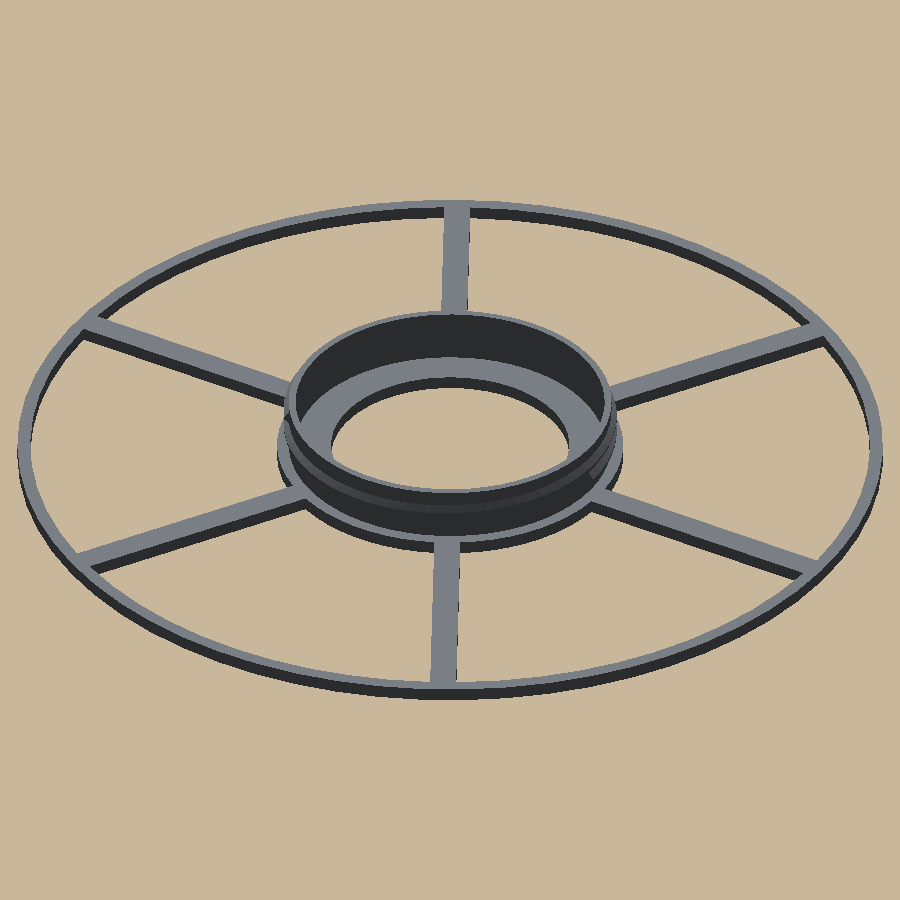
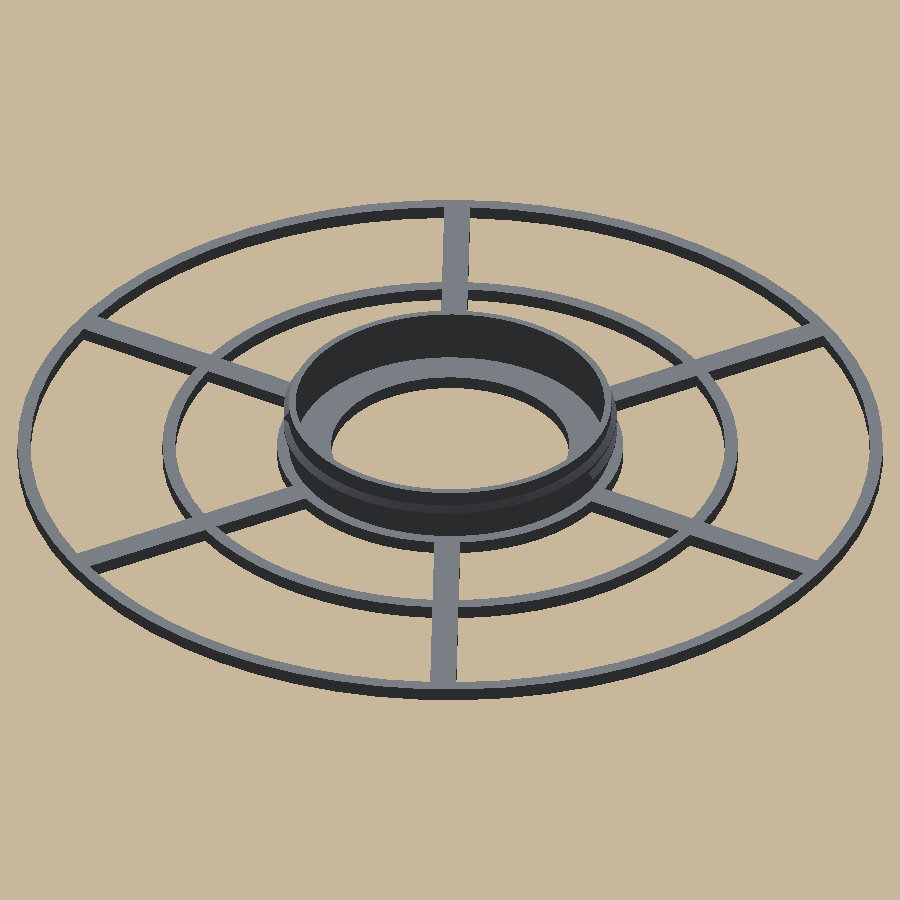
Refill spool: middle ring on both flanges, gapped at the straps on the barrel half (87.3 g)

Changed region(s): [[0.1556, 0.3111, 0.7778, 0.6844], [0.7778, 0.4044, 0.84, 0.5911]]

diff --git a/examples/refill-spool/tests/test_parts.py b/examples/refill-spool/tests/test_parts.py
@@ -14,6 +14,8 @@ C = center(P)
 BORE = P.bore_d / 2
 R_OUT = P.barrel_d / 2
 LOW = P.flange_t / 2
+MID_RING = pytest.approx((P.mid_ring_d / 2 - P.mid_ring_w / 2, P.mid_ring_d / 2 + P.mid_ring_w / 2), abs=0.02)
+RIM = pytest.approx((P.rim_in, P.rim_d / 2), abs=0.02)
 PLAIN_GAP = 360 / P.spokes  # between spokes 1 and 2: no strap track (straps are 0.5, 2.5, 4.5 steps round)
 
 
@@ -50,8 +52,7 @@ def test_barrel_half_flange_is_solid_out_to_the_barrel_then_rim(barrel):
         assert radial(barrel, C, a + 2.5, LOW, r0=BORE + 0.5, r1=R_OUT) == [pytest.approx(
             (BORE + 0.5, R_OUT), abs=0.02)], a
     assert radial(barrel, C, PLAIN_GAP / 2 + PLAIN_GAP, LOW) == [
-        pytest.approx((BORE, R_OUT), abs=0.02),
-        pytest.approx((P.rim_in, P.rim_d / 2), abs=0.02)]
+        pytest.approx((BORE, R_OUT), abs=0.02), MID_RING, RIM]
 
 
 @pytest.mark.parametrize("angle", P.strap_angles())
@@ -60,11 +61,19 @@ def test_strap_track_is_a_groove_the_barrels_full_length(barrel, angle):
     down (the barrel isn't slotted through), and opens out through the flange under it."""
     for z in (LOW, P.barrel_top / 2, P.barrel_top - 0.1):
         pieces = radial(barrel, C, angle, z, r0=BORE + P.bore_wall + 0.5, r1=P.rim_in - 0.5)
-        assert pieces[-1][1] == pytest.approx(P.track_floor, abs=0.02), (z, pieces)
+        assert pieces[-1][1] == pytest.approx(P.track_floor, abs=0.02), (z, pieces)  # open out to the rim
     behind = radial_z(barrel, C, angle, (P.nut_root + P.track_floor) / 2)
     assert behind == [pytest.approx((0, P.barrel_top), abs=1e-3)]
     assert tangential_gap(barrel, C, angle, (P.track_floor + R_OUT) / 2, P.barrel_top / 2) == pytest.approx(
         P.strap_w, abs=0.05)
+
+
+def test_middle_ring_is_gapped_for_the_straps_on_the_barrel_half_only(barrel, capp):
+    """A tie runs across the barrel half's outer face from its track to past the coil; a whole middle ring would
+    trap it. The cap's ring is whole: straps go on with the cap off."""
+    for a in P.strap_angles():
+        assert tangential_gap(barrel, C, a, P.mid_ring_d / 2, LOW, span=40) == pytest.approx(P.mid_ring_gap, abs=0.05)
+        assert radial(capp, C, a, LOW, r0=R_OUT + 0.5, r1=P.rim_in - 0.5) == [MID_RING]
 
 
 def test_barrel_is_one_tube_with_the_thread_unbroken(barrel):
@@ -120,9 +129,7 @@ def test_bore_is_plain(barrel):
 
 def test_cap_flange_and_spigot(capp):
     """The cap's flange is solid from the bore out over the barrel's top end, so the bore isn't hung on the spokes."""
-    assert radial(capp, C, PLAIN_GAP * 1.5, LOW) == [
-        pytest.approx((BORE, R_OUT), abs=0.02),
-        pytest.approx((P.rim_in, P.rim_d / 2), abs=0.02)]
+    assert radial(capp, C, PLAIN_GAP * 1.5, LOW) == [pytest.approx((BORE, R_OUT), abs=0.02), MID_RING, RIM]
     assert capp.bounding_box().max.Z == pytest.approx(P.flange_t + P.thread_len, abs=1e-3)
     outer = max(radial(capp, C, a, P.flange_t + P.thread_len / 2)[0][1] for a in range(0, 360, 5))
     assert outer == pytest.approx(P.bolt_root + P.thread_depth, abs=0.05)

diff --git a/examples/refill-spool/refill_spool/parts.py b/examples/refill-spool/refill_spool/parts.py
@@ -24,9 +24,16 @@ def radial_box(angle: float, r0: float, r1: float, w: float, h: float, z: float 
     return Rot(0, 0, angle) * Pos(r0, 0, z) * Box(r1 - r0, w, h, align=OUT)
 
 
-def flange(p: Params) -> Part:
-    """Rim and spokes, flange_t thick. Each spoke reaches from just inside the bore ring to the middle of the rim."""
+def flange(p: Params, strap_gaps: bool = False) -> Part:
+    """Rim, middle ring and spokes, flange_t thick. Each spoke reaches from just inside the bore to the middle of the
+    rim. strap_gaps: open the middle ring where each strap crosses the flange's outer face."""
     f = ring(p.rim_in, p.rim_d / 2, p.flange_t)
+    mid = ring(p.mid_ring_d / 2 - p.mid_ring_w / 2, p.mid_ring_d / 2 + p.mid_ring_w / 2, p.flange_t)
+    if strap_gaps:
+        for a in p.strap_angles():
+            mid -= radial_box(a, p.mid_ring_d / 2 - p.mid_ring_w, p.mid_ring_d / 2 + p.mid_ring_w, p.mid_ring_gap,
+                              p.flange_t + 1, -0.5)
+    f += mid
     for a in p.spoke_angles():
         f += radial_box(a, p.bore_d / 2 + 0.5, p.rim_in + p.rim_w / 2, p.spoke_w, p.flange_t)
     return f
@@ -72,7 +79,7 @@ def engaged(p: Params) -> float:
 
 def barrel_half_centered(p: Params = P) -> Part:
     top = p.barrel_top
-    part = flange(p) + ring(p.bore_d / 2, p.barrel_d / 2, p.flange_t)  # solid floor: the barrel stands on it
+    part = flange(p, strap_gaps=True) + ring(p.bore_d / 2, p.barrel_d / 2, p.flange_t)  # solid floor under barrel
     part += ring(p.bore_d / 2, p.bore_d / 2 + p.bore_wall, top)  # the cap's flange lands on its end
     part += ring(p.nut_root, p.barrel_d / 2, top)
     z0, z1 = nut_span(p)

diff --git a/examples/refill-spool/refill_spool/params.py b/examples/refill-spool/refill_spool/params.py
@@ -23,6 +23,9 @@ class Params:
     # flanges: spokes and a rim instead of a solid disc
     flange_t: float = 3.0  # 61 between flanges + 2 x 3 = 67, the enclosure's limit
     rim_w: float = 3.0  # radial
+    mid_ring_d: float = 130.0  # a second ring across the spokes, centered here: stiffer, smaller gaps
+    mid_ring_w: float = 3.0
+    mid_ring_gap: float = 10.0  # on the barrel half, at each strap: the tie crosses its outer face there
     spokes: int = 6
     spoke_w: float = 6.0
     # barrel half
@@ -50,7 +53,7 @@ class Params:
     strap_t: float = 1.2  # thickest strap the track must pass (zip ties up to ~6 x 1.2 mm)
     track_wall: float = 0.8  # barrel wall left behind the track
     filament: int = 3  # AMS slot: the user's PLA
-    max_grams: float = 85.0  # both halves, as Bambu Studio slices them (the user's solid printed ones are ~220)
+    max_grams: float = 95.0  # both halves, as Bambu Studio slices them (the user's solid printed ones are ~220)
     printer: Printer = Printer()
 
     def __post_init__(self):

diff --git a/examples/refill-spool/docs/specs/refill-spool.md b/examples/refill-spool/docs/specs/refill-spool.md
@@ -19,8 +19,8 @@ the spool in one piece.
 - **Straps:** 3 slots, 10 mm wide, run the barrel's full length midway between spokes. A strap goes under the core
   in a slot, out through both flanges between the spokes, and back over the coil inside the rim (needs the coil
   under Ø190; measure a full one). Tests model each loop at 1.5 mm thick and require it to touch nothing.
-- **Filament:** PLA, AMS slot 3 (see amendments). Bambu Studio slices the pair at 80.5 g; the tests hold
-  it under 85 g.
+- **Filament:** PLA, AMS slot 3 (see amendments). Bambu Studio slices the pair at 87.3 g; the tests hold
+  it under 95 g.
 
 All sizes live in `refill_spool/params.py`.
 
@@ -76,3 +76,8 @@ All sizes live in `refill_spool/params.py`.
   cardboard core measures 60 mm at its middle. 61 mm between flanges (0.5 mm a side) and 3 mm flanges make 67 mm.
   4 mm flanges (57 mm inside) can't hold a 60 mm core; 2 mm would fit but each spoke would be about a third as stiff
   (bending stiffness goes with thickness cubed), so 3 mm it is, in PLA (stiffer than PETG). 80.5 g sliced.
+- **2026-10-21: a middle ring on both flanges.** Ø130, 3 × 3 mm, across all six spokes: the flanges flex less and
+  the open gaps loose turns could slip through are halved. On the barrel half it has a 10 mm gap at each strap,
+  because a tie crosses that flange's outer face from its track to past the coil: a whole ring would trap the loop
+  and the coil couldn't lift off (the lift-off test caught it). The cap's ring is whole (straps go on cap off).
+  The user accepted the extra plastic: 87.3 g sliced (barrel half 59.0 g, cap 28.3 g); budget 95 g.

diff --git a/examples/refill-spool/README.md b/examples/refill-spool/README.md
@@ -2,8 +2,8 @@
 
 <img src="docs/images/iso.png" width="49%" alt="Barrel half with the cap lifted off, one strap loop in orange"> <img src="docs/images/top.png" width="49%" alt="Barrel half from above">
 
-A reusable spool for Bambu Lab 1 kg refill coils, made to use as little filament as possible: about 80 g of PLA
-for both halves, against ~220 g for a solid printed spool. Spoked flanges with a thin rim, a Ø80 barrel with strap
+A reusable spool for Bambu Lab 1 kg refill coils, made to use as little filament as possible: about 87 g of PLA
+for both halves, against ~220 g for a solid printed spool. Spoked flanges with a thin rim and a middle ring, a Ø80 barrel with strap
 tracks, and a cap that screws into the barrel top. It fits the AMS lite (Ø55 bore, 67 mm wide). A key at the barrel
 half's flange pokes into the notch in the refill's cardboard core, so the coil turns with the spool. Zip ties run
 down the tracks under the core and round the coil, so the coil comes off in one piece.

diff --git a/README.md b/README.md
@@ -31,7 +31,7 @@ one, a wall sunflower (`examples/sunflower-wall`), shows organic shapes and mult
 ├── examples/
 │   ├── fit-coupon/                smallest complete project: start here; the template for `cadkit.new`
 │   ├── candle-adapter/            one black part, glued into a chandelier cup
-│   ├── refill-spool/              an 80 g screw-together spool for Bambu refills, threads and strap tracks
+│   ├── refill-spool/              an 87 g screw-together spool for Bambu refills, threads and strap tracks
 │   ├── near-ceiling-track/        everything at scale: an HO railroad shelf around a room, ~220 tests
 │   └── sunflower-wall/            a 10" wall sunflower printed in one go, four AMS colors
 ├── docs/specs/                    decisions about the tool itself

diff --git a/CLAUDE.md b/CLAUDE.md
@@ -22,7 +22,7 @@
 - `examples/sharpie-colorizer/`: an inline Sharpie colorizer for the A1's external-spool guide tube (package
   `sharpie_colorizer`): a snap clip on the 40 × 20 frame bar and a block holding three tilted markers; fit-test
   plate first.
-- `examples/refill-spool/`: a ~80 g two-piece spool for Bambu refill coils (package `refill_spool`): spoked flanges,
+- `examples/refill-spool/`: a ~87 g two-piece spool for Bambu refill coils (package `refill_spool`): spoked flanges,
   barrel with zip-tie strap tracks, screw-on cap, a key into the refill core's notch. Threads from `cadkit.shapes.thread`.
 - `examples/sunflower-wall/`: a ~10" wall sunflower printed in one go (package `sunflower`, `flower.py`): lofted
   arched petals with orange valley beads, a domed Fibonacci head of diamond seeds, four colors by height.
